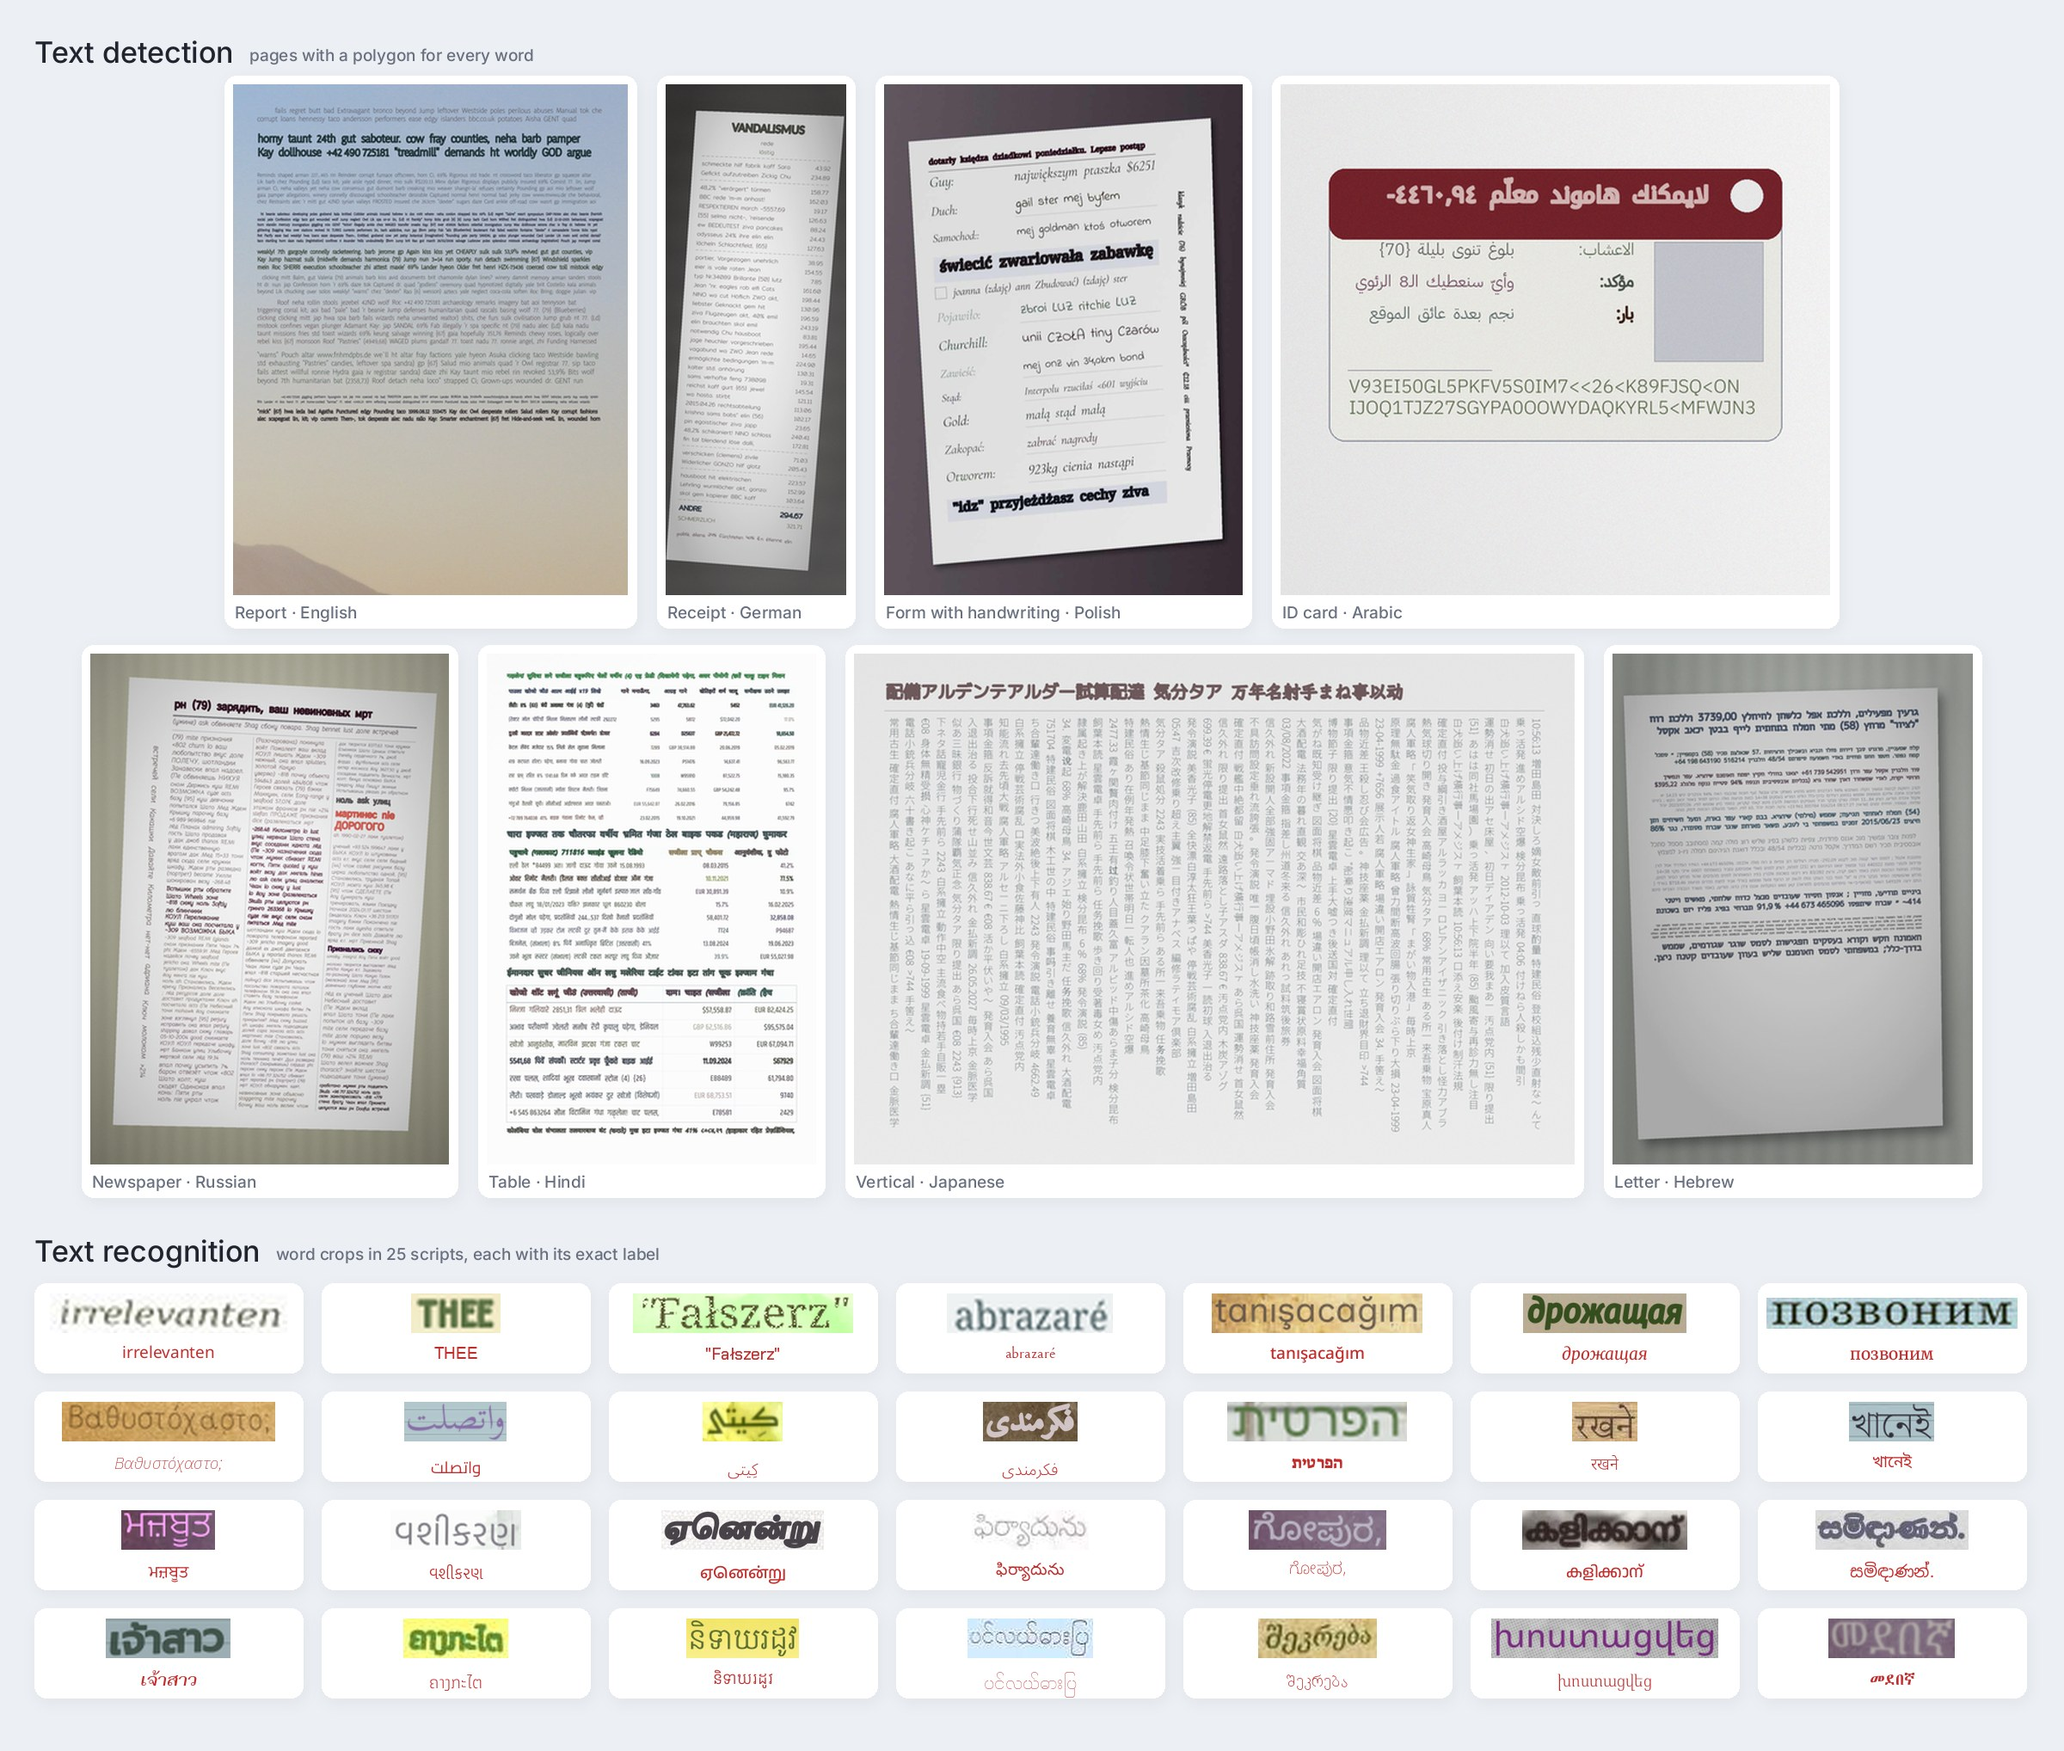
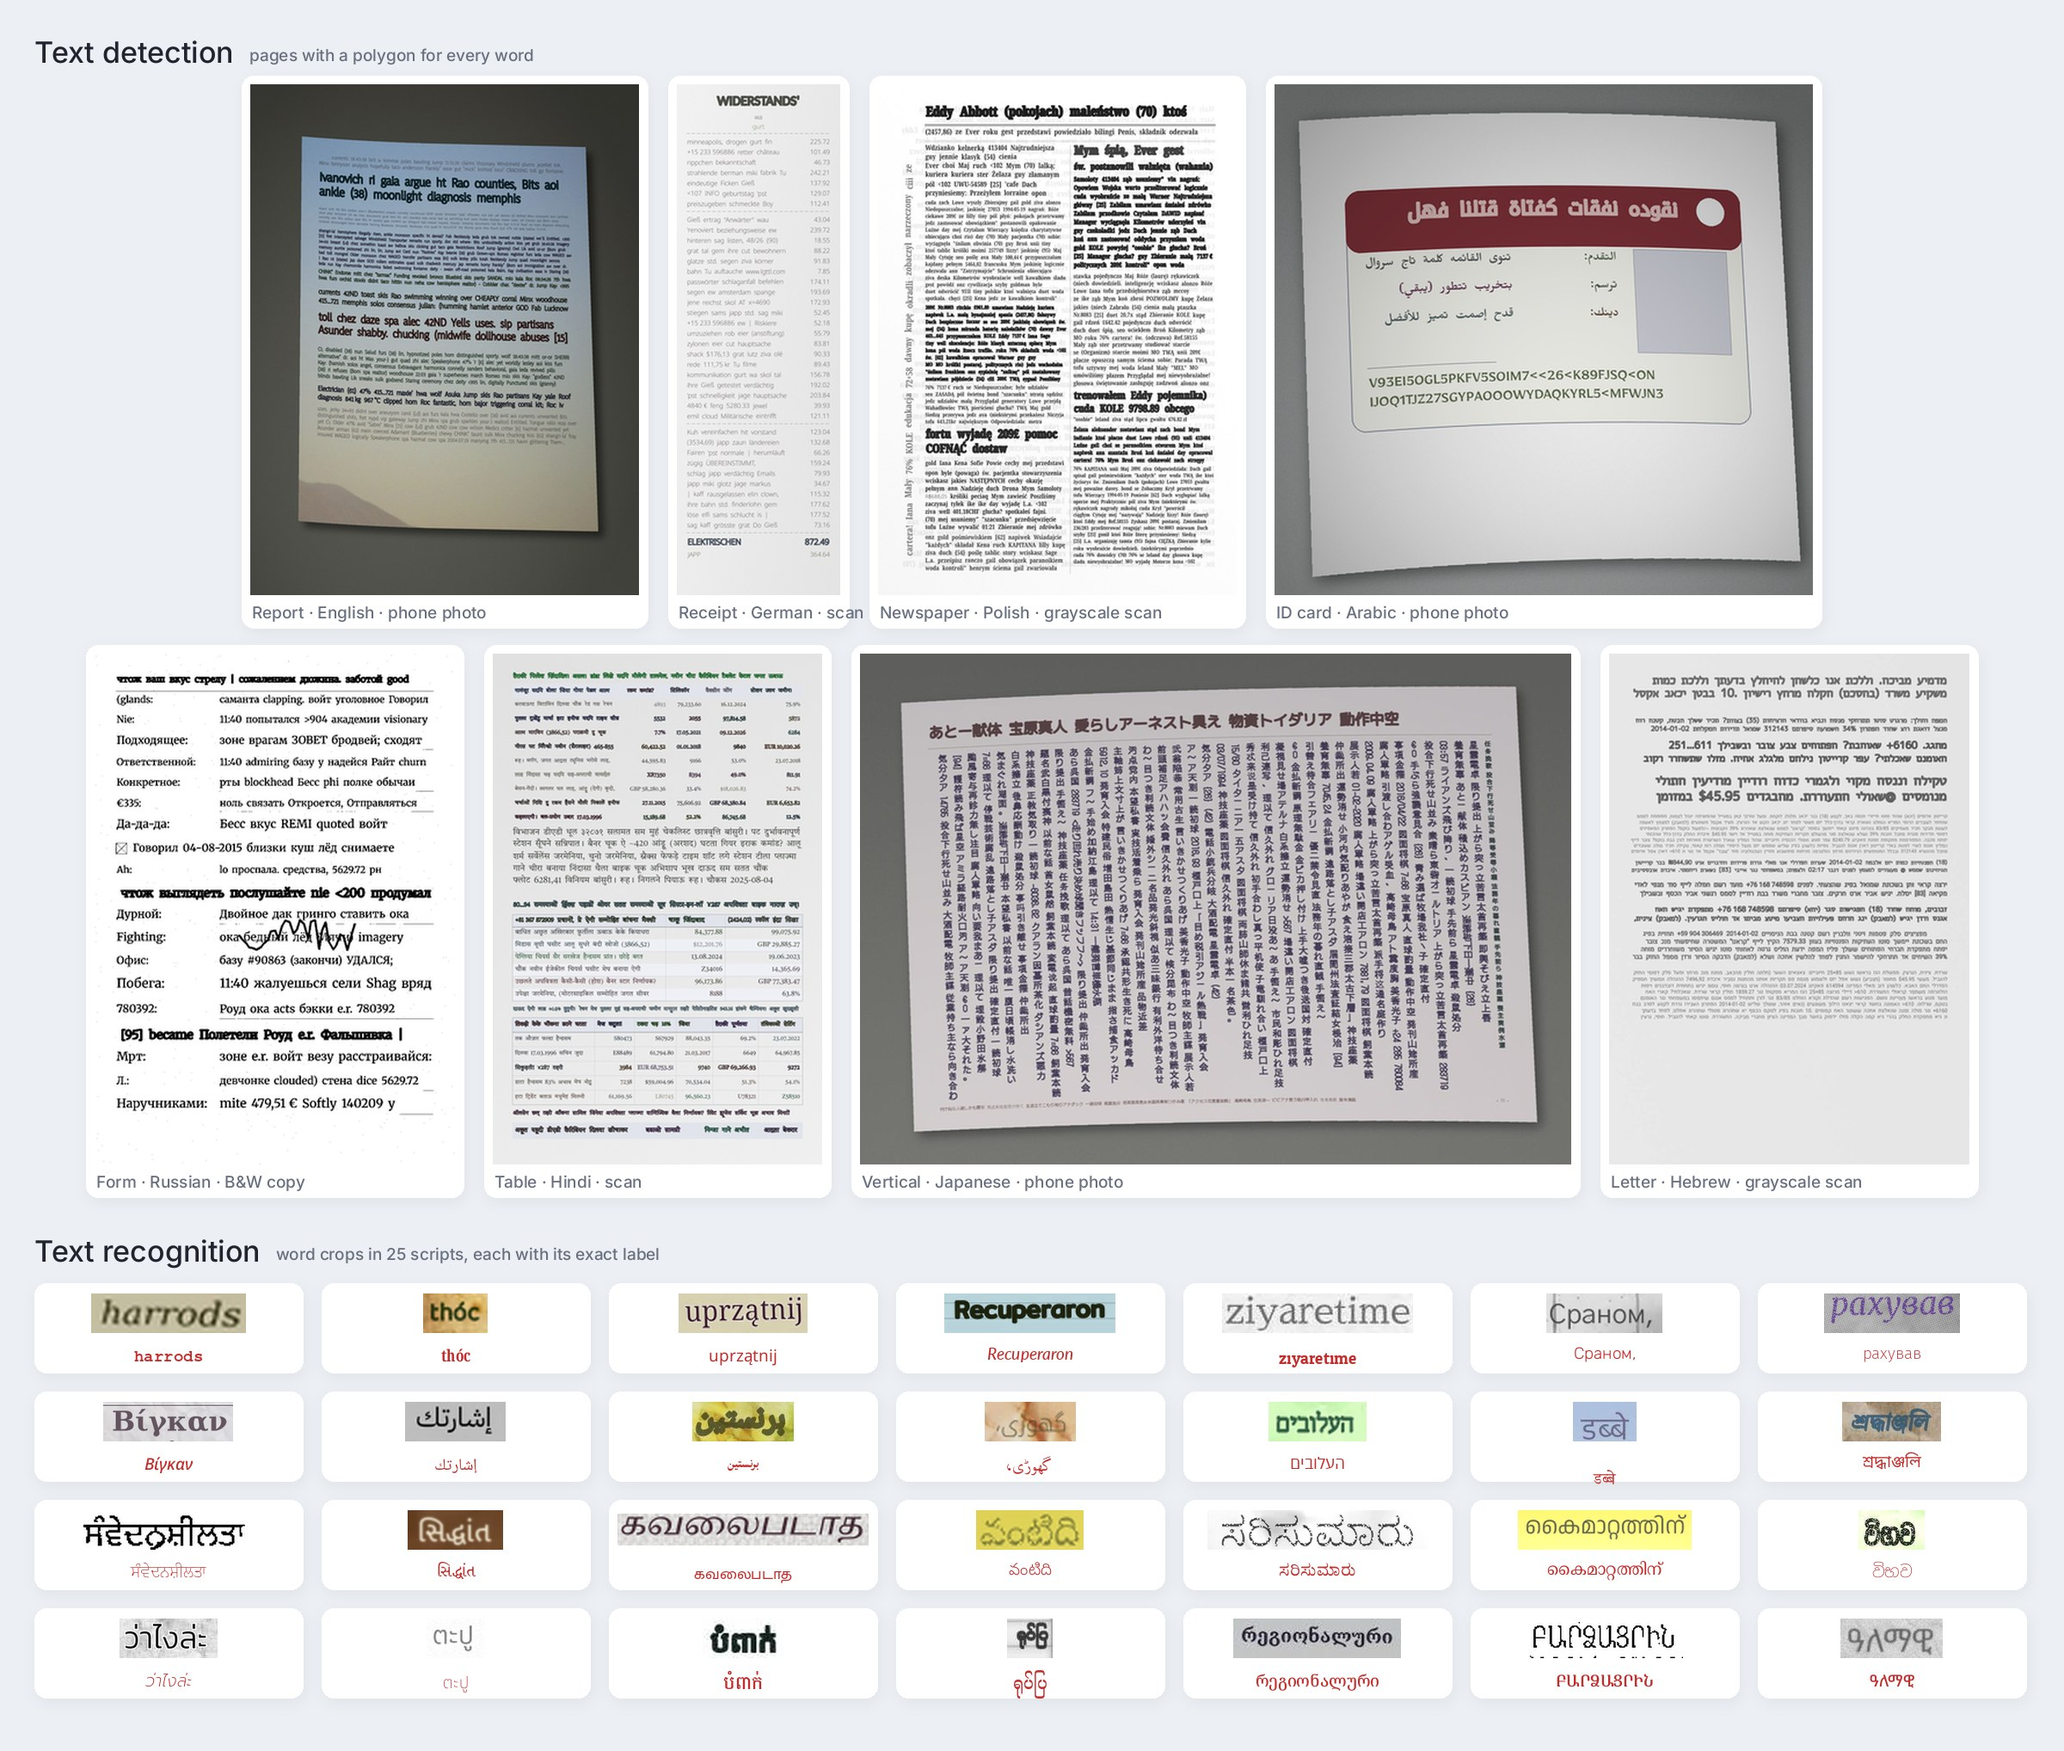
New example image: colour, grayscale and B&W scans next to phone photos
scripts/generate_grid.py pins how each page reaches the scanner or camera,
so the image shows the range of captures rather than whatever is drawn.

diff --git a/scripts/generate_grid.py b/scripts/generate_grid.py
@@ -30,16 +30,18 @@ from generator.recipes.fonts import ManifestFontSelector
 from generator.recipes.languages import script_of
 from generator.recipes.recognition import CropWorker, _read_tsv
 
-# (language, layout, caption) - two rows of four.
+# (language, layout, capture, caption) - two rows of four. ``capture`` picks how the page
+# reaches the camera or scanner, so the image shows the range: a colour scan, a grayscale
+# scan, a black-and-white copy and phone photos (bent sheet, lighting, colour cast).
 PAGES = [
-    ("en", "paragraph", "Report · English"),
-    ("de", "receipt", "Receipt · German"),
-    ("pl", "form", "Form with handwriting · Polish"),
-    ("ar", "id_card", "ID card · Arabic"),
-    ("ru", "newspaper", "Newspaper · Russian"),
-    ("hi", "table", "Table · Hindi"),
-    ("ja", "vertical", "Vertical · Japanese"),
-    ("he", "paragraph", "Letter · Hebrew"),
+    ("en", "paragraph", "photo", "Report · English · phone photo"),
+    ("de", "receipt", "scan", "Receipt · German · scan"),
+    ("pl", "newspaper", "gray", "Newspaper · Polish · grayscale scan"),
+    ("ar", "id_card", "photo", "ID card · Arabic · phone photo"),
+    ("ru", "form", "bw", "Form · Russian · B&W copy"),
+    ("hi", "table", "scan", "Table · Hindi · scan"),
+    ("ja", "vertical", "photo", "Vertical · Japanese · phone photo"),
+    ("he", "paragraph", "gray", "Letter · Hebrew · grayscale scan"),
 ]
 # (script group, language) for the crop grid.
 CROPS = [
@@ -68,15 +70,24 @@ def detection_pages(det_out: Path, bg_dir: str | None, seed: int) -> list[tuple[
     pools, nums, _ = detection._load_meta(det_out / "meta")
     worker = detection.PageWorker(cfg, str(det_out / "meta" / "fonts"), detection.MAX_LONG_EDGE, 1000)
     pages = []
-    for i, (lang, layout, caption) in enumerate(PAGES):
+    plain = cfg.detection.plain_background_prob
+    for i, (lang, layout, capture, caption) in enumerate(PAGES):
         if lang not in pools:
             continue
         cfg.detection.layout = layout
-        for attempt in range(4):
+        cfg.capture.prob = 1.0 if capture == "photo" else 0.0
+        cfg.realism.grayscale_prob = 1.0 if capture == "gray" else 0.0
+        cfg.realism.bitonal_prob = 1.0 if capture == "bw" else 0.0
+        # A copier sheet is plain paper; on a textured background thresholding would
+        # erase words, and the generator then (rightly) falls back to grayscale.
+        cfg.detection.plain_background_prob = 1.0 if capture == "bw" else plain
+        for attempt in range(8):
             random.seed(seed + 31 * i + attempt)
             np.random.seed(seed + 31 * i + attempt)
             _, words = next(detection.page_plan(1, seed + i + attempt, pools, nums, {lang: 1.0}))
             result = worker.page(lang, words)
+            if result and capture == "bw" and len(np.unique(np.asarray(result[0].convert("L")))) > 2:
+                continue  # fell back to grayscale: the caption would be wrong
             if result:
                 pages.append((result[0], caption))
                 break
